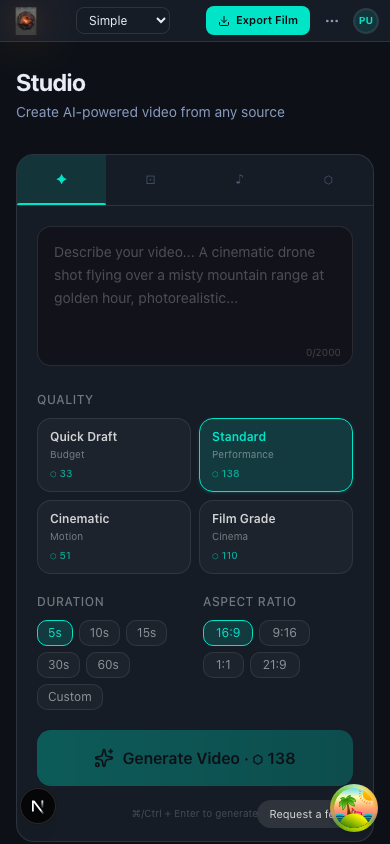
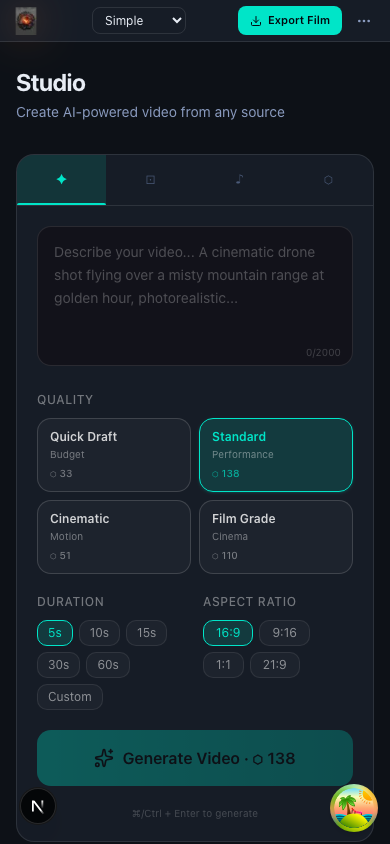
Let the program picture fill the monitor and keep one quality card tied to the price.

diff --git a/src/components/editor/EditorDock.tsx b/src/components/editor/EditorDock.tsx
@@ -611,7 +611,7 @@ function place(api: DockviewApi, workspace: WorkspaceName) {
     })
     api.addPanel({ id: 'timeline', component: 'timeline', title: 'Timeline', position: { referencePanel: tool, direction: 'below' } })
     api.addPanel({ id: 'inspector', component: 'inspector', title: 'Inspector', position: { referencePanel: tool, direction: 'within' } })
-    program.api.setConstraints({ minimumWidth: narrow ? 320 : 480, minimumHeight: 270 })
+    program.api.setConstraints({ minimumWidth: narrow ? 200 : 320, minimumHeight: monitorShare(api) })
     api.getPanel('scopes')?.api.setConstraints({ minimumWidth: 240, minimumHeight: 160 })
     tool.api.setConstraints({ minimumHeight: 120 })
     if (!narrow) program.api.setSize({ width: Math.round((api.width || window.innerWidth) * 0.55) })
@@ -630,11 +630,29 @@ function place(api: DockviewApi, workspace: WorkspaceName) {
       api.addPanel({ id: 'extensions', component: 'extensions', title: 'Extensions', position: { referencePanel: 'inspector', direction: 'within' } })
       api.addPanel({ id: 'transcript', component: 'transcript', title: 'Transcript', position: { referencePanel: 'inspector', direction: 'within' } })
     }
-    program.api.setConstraints({ minimumWidth: 320, minimumHeight: 180 })
+    program.api.setConstraints({ minimumWidth: 200, minimumHeight: monitorShare(api) })
   }
-  const lock = workspace === 'Creator'
-  api.groups.forEach((group) => { group.locked = lock })
+  api.groups.forEach((group) => { group.locked = false })
   api.getPanel('timeline')?.api.setConstraints({ minimumHeight: toolWorkspace ? 64 : 80 })
+  applyMonitorShare(api)
+}
+
+function monitorShare(api: DockviewApi): number {
+  return Math.max(180, Math.round((api.height || 0) * 0.45))
+}
+
+function applyMonitorShare(api: DockviewApi) {
+  const program = api.getPanel('program')
+  if (!program) return
+  const min = monitorShare(api)
+  program.api.setConstraints({ minimumHeight: min, minimumWidth: 200 })
+  if ((program.api.height ?? 0) < min) program.api.setSize({ height: min })
+  for (const id of ['tools', 'scopes']) {
+    const side = api.getPanel(id)
+    if (!side) continue
+    side.api.setConstraints({ minimumWidth: 180, maximumWidth: 200 })
+    if ((side.api.width ?? 0) > 200) side.api.setSize({ width: 200 })
+  }
 }
 
 export function EditorDock({
@@ -672,7 +690,7 @@ export function EditorDock({
     apiRef.current?.getPanel('inspector')?.api.setActive()
   }, [selectedClipId])
   const [workspace, setWorkspace] = useState<WorkspaceName>('Creator')
-  const [locked, setLocked] = useState(true)
+  const [locked, setLocked] = useState(false)
   const [preset, setPreset] = useState<KeymapPresetId>('forge')
   const [keymap, setKeymap] = useState<Keymap>(KEYMAP_PRESETS.forge)
   const [timelineMode, setTimelineMode] = useState<TimelineDockMode>('full')
@@ -776,6 +794,8 @@ export function EditorDock({
     } else {
       place(event.api, useUIStore.getState().workspace)
     }
+    applyMonitorShare(event.api)
+    event.api.groups.forEach((group) => { group.locked = false })
     queueMicrotask(() => { suppressLayoutSave.current = false })
   }
 
@@ -816,7 +836,7 @@ export function EditorDock({
 
   function switchWorkspace(next: WorkspaceName) {
     setWorkspace(next)
-    setLocked(next === 'Creator')
+    setLocked(false)
     setTimelineMode(readPin(next) ?? defaultTimelineMode(next))
     useUIStore.getState().setWorkspace(next)
     const api = apiRef.current
@@ -886,8 +906,11 @@ export function EditorDock({
     const panel = apiRef.current?.getPanel('timeline')
     if (!panel) return
     const height = timelineMode === 'full' ? 280 : timelineMode === 'compact' ? 72 : 28
+    const api = apiRef.current
+    const cap = api ? Math.max(80, Math.round(api.height * 0.55)) : height
     panel.api.setConstraints({ minimumHeight: timelineMode === 'hidden' ? 28 : 64 })
-    panel.api.setSize({ height })
+    panel.api.setSize({ height: Math.min(height, cap) })
+    if (api) applyMonitorShare(api)
   }, [timelineMode])
 
   function toggleLock() {

diff --git a/e2e/responsive-layout.spec.ts b/e2e/responsive-layout.spec.ts
@@ -68,7 +68,27 @@ async function generateIsClickable(page: Page) {
       return owner?.getAttribute('aria-label') || owner?.getAttribute('title') || owner?.textContent?.trim() || ''
     }, { x: box.x + box.width / 2, y: box.y + box.height / 2 })
     expect(hit).toMatch(/Generate/)
+    if (box.width > 80) {
+      const edge = await page.evaluate(({ x, y }) => {
+        const el = document.elementFromPoint(x, y)
+        const owner = el?.closest('button, a')
+        return owner?.getAttribute('aria-label') || owner?.getAttribute('title') || owner?.textContent?.trim() || ''
+      }, { x: box.x + box.width * 0.7, y: box.y + box.height / 2 })
+      expect(edge).toMatch(/Generate/)
+    }
   }
+}
+
+async function oneSelectedQuality(page: Page) {
+  await expect.poll(async () => page.evaluate(() => {
+    const selected = [...document.querySelectorAll<HTMLElement>('[data-selected="true"]')]
+    const priced = document.querySelector('[data-generate-credits]')
+    if (selected.length === 0 || !priced) return 'absent'
+    if (selected.length !== 1) return `count:${selected.length}`
+    const credits = selected[0].getAttribute('data-quality-credits')
+    const button = priced.getAttribute('data-generate-credits')
+    return credits === button ? 'ok' : `${credits}!=${button}`
+  })).toBe('ok')
 }
 
 async function cyclePanel(page: Page) {
@@ -79,14 +99,19 @@ async function cyclePanel(page: Page) {
     await page.waitForTimeout(300)
   }
   const monitor = page.locator('[data-program-monitor]')
+  const picture = page.locator('[data-program-picture]').first()
   const opened = await monitor.boundingBox()
+  const pictureOpen = await picture.boundingBox()
   const panel = await page.locator('[data-side-panel]').boundingBox()
   expect(opened).toBeTruthy()
+  expect(pictureOpen && pictureOpen.width).toBeGreaterThan(200)
   expect(panel && panel.width).toBeGreaterThan(40)
   await page.getByRole('button', { name: 'Close panel' }).first().click()
   await page.waitForTimeout(300)
   const closed = await monitor.boundingBox()
+  const pictureClosed = await picture.boundingBox()
   expect(closed!.width).toBeGreaterThan(opened!.width + Math.max(40, (panel?.width ?? 0) * 0.6))
+  expect(pictureClosed!.width).toBeGreaterThan(pictureOpen!.width + Math.max(80, (panel?.width ?? 0) * 0.7))
   await page.getByRole('button', { name: 'Open panel' }).click()
   await page.waitForTimeout(300)
   const reopened = await monitor.boundingBox()
@@ -113,6 +138,7 @@ for (const route of ROUTES) {
         await expect(page.getByRole('link', { name: 'Open Simple mode' })).toHaveAttribute('href', '/simple')
       } else {
         await generateIsClickable(page)
+        await oneSelectedQuality(page)
       }
 
       if (route !== '/simple' && viewport.width >= 700 && PANEL_WIDTHS.has(viewport.width)) {

diff --git a/src/components/simple/TextToVideoTab.tsx b/src/components/simple/TextToVideoTab.tsx
@@ -172,11 +172,14 @@ export function TextToVideoTab({ onGenerated, creditBalance, userRole, unlimited
               key={pill.id}
               onClick={() => setManualQuality(pill.id)}
               disabled={!unlimited && creditBalance !== null && pillQuote(pill.id, actualDuration).credits > creditBalance}
+              aria-pressed={quality === pill.id}
+              data-selected={quality === pill.id ? 'true' : 'false'}
+              data-quality-credits={pillQuote(pill.id, actualDuration).credits}
               className={`
-                group px-3 py-2.5 rounded-xl border text-left transition-all
+                group px-3 py-2.5 rounded-xl border text-left transition-all outline-none focus-visible:outline focus-visible:outline-2 focus-visible:outline-offset-2 focus-visible:outline-[#00e5c8]
                 ${quality === pill.id
                   ? 'border-[#00e5c8] bg-[#00e5c8]/15 shadow-sm shadow-[#00e5c8]/15'
-                  : 'border-white/8 bg-white/3 hover:border-white/20 hover:bg-white/5'}
+                  : 'border-white/15 bg-white/3 hover:border-white/20 hover:bg-white/5'}
                 disabled:opacity-30 disabled:cursor-not-allowed
               `}
             >
@@ -184,7 +187,7 @@ export function TextToVideoTab({ onGenerated, creditBalance, userRole, unlimited
                 {pill.label}
               </div>
               <div className="text-[10px] text-white/40">{pill.description}</div>
-              <div className={`text-[10px] mt-1 font-medium ${!unlimited && creditBalance !== null && pillQuote(pill.id, actualDuration).credits > creditBalance ? 'text-red-400' : 'text-[#00e5c8]/70'}`}>
+              <div className={`text-[10px] mt-1 font-medium ${!unlimited && creditBalance !== null && pillQuote(pill.id, actualDuration).credits > creditBalance ? 'text-red-400' : quality === pill.id ? 'text-[#00e5c8]/70' : 'text-white/40'}`}>
                 ⬡ {pillQuote(pill.id, actualDuration).credits}
               </div>
             </button>
@@ -285,6 +288,7 @@ export function TextToVideoTab({ onGenerated, creditBalance, userRole, unlimited
       <button
         onClick={handleGenerate}
         disabled={!prompt.trim() || isLoading || gate.generateDisabled}
+        data-generate-credits={quote.credits}
         className="
           w-full py-4 rounded-xl font-semibold text-base
           bg-gradient-to-r from-teal-500 to-teal-600

diff --git a/src/components/editor/VideoPreview.tsx b/src/components/editor/VideoPreview.tsx
@@ -215,9 +215,9 @@ export function VideoPreview({
   return (
     <div
       ref={containerRef}
-      className="preview-container relative flex h-full min-h-[270px] min-w-0 flex-col bg-black border-b border-white/8"
+      className="preview-container relative flex h-full min-h-0 min-w-0 flex-1 flex-col bg-black border-b border-white/8"
     >
-      <div className="relative flex flex-1 items-center justify-center bg-[#050508]">
+      <div data-program-picture className="relative min-h-0 flex-1 bg-[#050508]">
         <div
           className="absolute inset-0 flex items-center justify-center"
           style={control ? { transform: `translate(${control.x}px, ${control.y}px) scale(${control.scale}) rotate(${control.rotation}deg)` } : undefined}
@@ -225,13 +225,13 @@ export function VideoPreview({
           {resolvedSrc && canPlaySrc(resolvedSrc) && isVideoMediaUrl(resolvedSrc) && !noMedia ? (
             <video
               ref={videoRef}
-              className="preview-video max-h-full max-w-full object-contain"
+              data-program-picture
+              className="preview-video h-full w-full object-contain"
               style={{
                 ...previewGrade(currentClip),
                 transform: currentClip?.transform
                   ? `translate(${currentClip.transform.x}px, ${currentClip.transform.y}px) scale(${currentClip.transform.scale}) rotate(${currentClip.transform.rotation}deg)`
                   : undefined,
-                objectFit: currentClip?.reframe && currentClip.reframe !== '16:9' ? 'cover' : undefined,
               }}
               crossOrigin="anonymous"
               playsInline
@@ -349,7 +349,14 @@ export function VideoPreview({
           {formatTimecode(duration)}
         </span>
       </div>
-      {!scopesInDock && <Scopes videoRef={videoRef} />}
+      {!scopesInDock && (
+        <details className="shrink-0 border-t border-white/10">
+          <summary className="cursor-pointer px-3 py-1 text-[10px] text-white/50">Scopes</summary>
+          <div className="h-28 overflow-hidden">
+            <Scopes videoRef={videoRef} />
+          </div>
+        </details>
+      )}
       {currentClip && <ClipControlBar clip={currentClip} />}
     </div>
   )

diff --git a/src/components/features/FeatureRequestButton.tsx b/src/components/features/FeatureRequestButton.tsx
@@ -1,12 +1,20 @@
 'use client'
 
-import { useState } from 'react'
+import { useEffect, useState } from 'react'
 import { cleanText } from '@/lib/features/request'
+import { useViewportWidth } from '@/components/layout/useSidePanel'
 
 const KINDS = ['feature', 'tool', 'bug', 'other'] as const
 
 export function FeatureRequestButton() {
   const [open, setOpen] = useState(false)
+  const width = useViewportWidth()
+  const phone = width !== null && width < 700
+  useEffect(() => {
+    const openRequest = () => setOpen(true)
+    window.addEventListener('cinema-feature-request', openRequest)
+    return () => window.removeEventListener('cinema-feature-request', openRequest)
+  }, [])
   const [kind, setKind] = useState<(typeof KINDS)[number]>('feature')
   const [title, setTitle] = useState('')
   const [body, setBody] = useState('')
@@ -47,13 +55,15 @@ export function FeatureRequestButton() {
 
   return (
     <>
-      <button
-        type="button"
-        onClick={() => { setRoute(window.location.pathname); setOpen(true) }}
-        className="fixed z-40 rounded-full bg-white/10 px-3 py-1.5 text-[11px] text-white/80 bottom-[max(1rem,env(safe-area-inset-bottom))] right-[max(1rem,env(safe-area-inset-right))]"
-      >
-        Request a feature
-      </button>
+      {!phone && (
+        <button
+          type="button"
+          onClick={() => { setRoute(window.location.pathname); setOpen(true) }}
+          className="fixed z-40 rounded-full bg-white/10 px-3 py-1.5 text-[11px] text-white/80 bottom-[max(1rem,env(safe-area-inset-bottom))] right-[max(1rem,env(safe-area-inset-right))]"
+        >
+          Request a feature
+        </button>
+      )}
       {open && (
         <div className="fixed inset-0 z-50 flex items-end justify-start bg-black/40 p-4" onClick={() => setOpen(false)}>
           <form

diff --git a/src/components/panels/GeneratePanel.tsx b/src/components/panels/GeneratePanel.tsx
@@ -233,7 +233,10 @@ export function GeneratePanel() {
             <button
               key={key}
               onClick={() => setManualTier(key)}
-              className={`px-2 py-1.5 rounded text-[11px] font-medium border transition ${
+              aria-pressed={tier === key}
+              data-selected={tier === key ? 'true' : 'false'}
+              data-quality-credits={quoteGenerationHold({ tier: key, durationSeconds: duration }).credits}
+              className={`px-2 py-1.5 rounded text-[11px] font-medium border transition outline-none focus-visible:outline focus-visible:outline-2 focus-visible:outline-offset-2 focus-visible:outline-[#00e5c8] ${
                 tier === key
                   ? 'border-[#00e5c8] bg-[#00e5c8]/10 text-[#00e5c8]'
                   : 'border-[#2a3040] bg-[#1a1f2e] text-gray-400 hover:border-[#3a4050] hover:text-gray-200'
@@ -392,7 +395,8 @@ export function GeneratePanel() {
         <button
           onClick={handleGenerate}
           disabled={isGenerating || !prompt.trim() || gate.generateDisabled}
-          className="w-full py-2 bg-[#00e5c8] text-black text-xs font-bold rounded-lg hover:bg-[#00d4b8] disabled:opacity-40 disabled:cursor-not-allowed transition"
+          data-generate-credits={quote.credits}
+          className="w-full py-2 bg-[#00e5c8] text-black text-xs font-bold rounded-lg hover:bg-[#00d4b8] disabled:opacity-40 disabled:cursor-not-allowed transition outline-none focus-visible:outline focus-visible:outline-2 focus-visible:outline-offset-2 focus-visible:outline-black"
         >
           {isGenerating ? 'Generating...' : 'Generate'}
         </button>

diff --git a/src/components/simple/ImageToVideoTab.tsx b/src/components/simple/ImageToVideoTab.tsx
@@ -199,14 +199,17 @@ export function ImageToVideoTab({ onGenerated, creditBalance, unlimited = false 
             key={pill.id}
             onClick={() => setQuality(pill.id)}
             disabled={!unlimited && creditBalance !== null && pillQuote(pill.id, 5).credits > creditBalance}
+            aria-pressed={quality === pill.id}
+            data-selected={quality === pill.id ? 'true' : 'false'}
+            data-quality-credits={pillQuote(pill.id, 5).credits}
             className={`
-              p-2.5 rounded-xl border text-left transition-all text-xs
-              ${quality === pill.id ? 'border-[#00e5c8] bg-[#00e5c8]/15 text-[#00e5c8]' : 'border-white/8 bg-white/3 text-white/50 hover:border-white/20'}
+              p-2.5 rounded-xl border text-left transition-all text-xs outline-none focus-visible:outline focus-visible:outline-2 focus-visible:outline-offset-2 focus-visible:outline-[#00e5c8]
+              ${quality === pill.id ? 'border-[#00e5c8] bg-[#00e5c8]/15 text-[#00e5c8]' : 'border-white/15 bg-white/3 text-white/50 hover:border-white/20'}
               disabled:opacity-30 disabled:cursor-not-allowed
             `}
           >
             <div className="font-medium">{pill.label}</div>
-            <div className="text-[10px] text-[#00e5c8]/70 mt-0.5">⬡ {pillQuote(pill.id, 5).credits}</div>
+            <div className={`text-[10px] mt-0.5 ${quality === pill.id ? 'text-[#00e5c8]/70' : 'text-white/40'}`}>⬡ {pillQuote(pill.id, 5).credits}</div>
           </button>
         ))}
       </div>

diff --git a/src/components/editor/ClipControlBar.tsx b/src/components/editor/ClipControlBar.tsx
@@ -97,7 +97,9 @@ export function ClipControlBar({ clip }: { clip: Clip }) {
   }
 
   return (
-    <div className="space-y-1 border-t border-white/10 px-3 py-2 text-[10px] text-white/70">
+    <details className="shrink-0 border-t border-white/10 text-[10px] text-white/70">
+      <summary className="cursor-pointer px-3 py-1 text-white/50">Clip controls</summary>
+      <div className="space-y-1 px-3 pb-2">
       <p className="text-white/40">Control on the clip at the playhead. Generated and imported clips both take it. The picture stays.</p>
       <div className="flex flex-wrap gap-1">
         <input className="w-28 rounded bg-black/40 px-1 py-0.5" placeholder="Lower third" value={title} onChange={(event) => setTitle(event.target.value)} />
@@ -123,6 +125,7 @@ export function ClipControlBar({ clip }: { clip: Clip }) {
         </label>
       </div>
       {note && <p>{note}</p>}
-    </div>
+      </div>
+    </details>
   )
 }

diff --git a/src/components/editor/Scopes.tsx b/src/components/editor/Scopes.tsx
@@ -132,7 +132,7 @@ export function Scopes({ videoRef, mode = 'waveform' }: Props) {
   }, [videoRef, activeMode])
 
   return (
-    <div className="flex h-full min-h-[160px] flex-col gap-1">
+    <div className="flex h-full min-h-0 flex-col gap-1">
       <div className="flex gap-1 px-1">
         {(['waveform', 'parade', 'vectorscope', 'histogram'] as ScopeMode[]).map(m => (
           <button
@@ -150,7 +150,7 @@ export function Scopes({ videoRef, mode = 'waveform' }: Props) {
         ref={canvasRef}
         width={320}
         height={180}
-        className="h-full min-h-[140px] w-full rounded border border-[#1a1f2e] bg-[#0d1117]"
+        className="h-full min-h-0 w-full rounded border border-[#1a1f2e] bg-[#0d1117]"
       />
     </div>
   )

diff --git a/src/components/layout/TopBar.tsx b/src/components/layout/TopBar.tsx
@@ -367,6 +367,9 @@ export function TopBar() {
                 <DropdownMenuItem onClick={() => router.push('/download')} className="gap-2 text-[12px] cursor-pointer">
                   <Download className="w-3.5 h-3.5" /> Download
                 </DropdownMenuItem>
+                <DropdownMenuItem onClick={() => window.dispatchEvent(new Event('cinema-feature-request'))} className="text-[12px] cursor-pointer">
+                  Request a feature
+                </DropdownMenuItem>
               </DropdownMenuContent>
             </DropdownMenu>
           )}

diff --git a/src/components/playback/InteractivePlayer.tsx b/src/components/playback/InteractivePlayer.tsx
@@ -235,7 +235,7 @@ export function InteractivePlayer(props: Props) {
         </button>
       </div>
 
-      <div className="flex">
+      <div className="flex min-h-0 flex-1">
         {editMode && (
           <div className="flex flex-col gap-1 p-1.5 border-r border-white/8 bg-[#0d1425]">
             {TOOLS.map((t) => (

diff --git a/docs/audits/BUG-REGISTER.md b/docs/audits/BUG-REGISTER.md
@@ -1,3 +1,9 @@
+# BUG REGISTER — Run 51 monitor size (2026-10-15)
+
+| ID | Status | What landed |
+|---|---|---|
+| R51-MONITOR | code + local playwright | The program picture stayed about 252×142 because the well sized to leftover height and the video box followed the letterbox. The well now fills the monitor (`object-contain`), scopes and clip controls collapse, and the dock keeps the monitor at least 45% of the editor height with a draggable divider. On localhost the picture measured 817×232 with the panel open and 1036×232 closed at 1280, and 1354×586 open and 1572×586 closed at 1920. On a phone the feature request leaves the page and lives in the more menu. Exactly one quality card is selected, and that card's price is the Generate price. Focus rings show for keyboard focus only. `e2e/responsive-layout.spec.ts` covers the picture growth, the uncovered Generate control, and the single selected card. |
+
 # BUG REGISTER — Run 50 layout (2026-10-15)
 
 | ID | Status | What landed |
